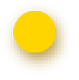
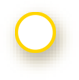
fuck git

Changed region(s): [[0.1519, 0.125, 0.7342, 0.75]]

diff --git a/www/js/index.js b/www/js/index.js
@@ -11,6 +11,7 @@ bind: function() {
 circleX: 140,
 circleSize: 80,
 verticalLineWidth: 6,
+circleIcons: [],
 deviceready: function() {
     
     if(window.cordova.logger) {
@@ -24,6 +25,17 @@ deviceready: function() {
     cornerButton.style.top = Math.floor(cornerButton.offsetHeight*0.5)+'px';
     var getItButton = document.getElementById('getItButton');
     getItButton.style.top = Math.floor(window.innerHeight-getItButton.offsetHeight)+'px';
+
+    console.log('---- thingy ----');
+
+    for(var i=0;i<4;i++){
+        app.circleIcons[i] = document.createElement('img');
+        console.log('---- thingy ----');
+        console.log(i);
+        app.circleIcons[i].src = 'img/lebasket_Dot_'+i+'.png';
+        app.circleIcons[i].className = "circle";
+        app.circleIcons[i].style.left = Math.floor(app.circleX-(app.circleSize/2))+'px';
+    }
     
     app.list();
 },
@@ -54,9 +66,7 @@ ondevicelist: function(devices) {
                     if(b.rssi > 0) return -1;
                     return b.rssi-a.rssi;
                     });
-    
-    document.getElementById('status').innerHTML = "Found Devices: "+devices.length;
-    
+        
     var chickenParma = ["chicken", "pepper", "cheese", "marinaraSauce"];
     
     devices.forEach(function(device) {
@@ -75,26 +85,25 @@ ondevicelist: function(devices) {
         
         if(deviceId && !app.allPeripherals[deviceId]){
 
+            app.totalPeripherals++;
+
             var p = {
                 'id':deviceId,
                 'rssi':rssi || 'no RSSI',
-                'circleImage': document.createElement('img'),
+                'circleImage': undefined,
                 'foodName':undefined,
                 'updateCounter':0,
                 'x':app.circleX,
                 'y': undefined
             };
 
-            p.circleImage.className = "circle";
-            p.circleImage.style.left = Math.floor(app.circleX-(app.circleSize/2))+'px';
-            p.circleImage.src = 'img/lebasket_Dot_1.png';
+            p.circleImage = app.circleIcons[Math.floor(Math.random()*app.circleIcons.length)];
             document.getElementById('circlesDiv').appendChild(p.circleImage);
             
             var ri= Math.floor(Math.random()*chickenParma.length);
             p.foodName = chickenParma[ri];
             
             app.allPeripherals[deviceId] = p;
-            app.totalPeripherals++;
         }
         else{
             app.allPeripherals[deviceId].rssi = rssi;
@@ -116,15 +125,18 @@ updateCircleOrder: function(){
         }
     }
     if(app.totalPeripherals>0){
+        var iconThresh = app.totalPeripherals/3;
         var bottomMargin = Math.floor(window.innerHeight*.15);
         var topMargin = Math.floor(window.innerHeight*.15);
         var gap = ((window.innerHeight-bottomMargin)-topMargin)/app.totalPeripherals;
         var counter = 0;
         for(var p in app.allPeripherals){
+            var imageIndex = Math.floor(counter/iconThresh);
             var temp = app.allPeripherals[p];
             var tempTop = Math.floor(((gap/2)+(gap*counter)));
             tempTop += topMargin;
             temp.y = tempTop;
+            //temp.circleImage = app.circleIcons[imageIndex];
             temp.circleImage.style.top = Math.floor(tempTop-(app.circleSize/2))+'px';
             counter++;
         }

diff --git a/www/index.html b/www/index.html
@@ -26,7 +26,6 @@
                 <img id="bigImage" src="img/lebasket_marinarasauce.png" />
             </div>
         </div>
-        <div id="status"></div>
         <div id="messageDiv">
             <script type="text/javascript" src="cordova.js"></script>
             <script type="text/javascript" src="js/underscore-min.js"></script>
